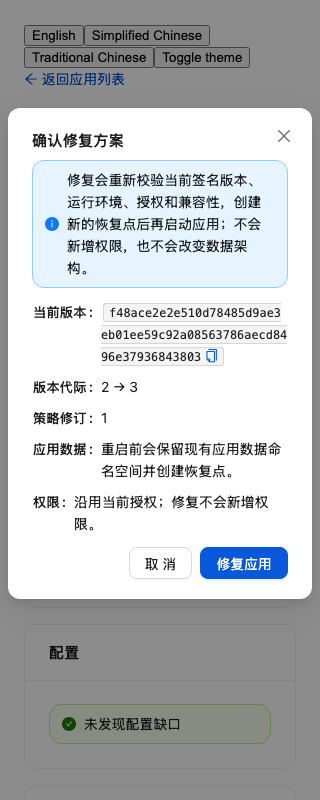
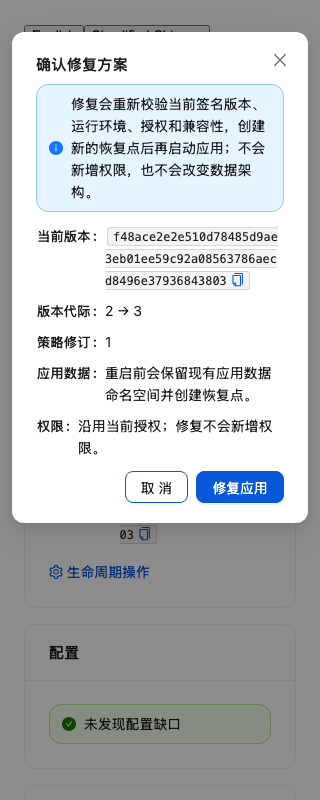
docs(apps): record enlarged review acceptance

diff --git a/docs/app-platform/handoff/implementation-progress.md b/docs/app-platform/handoff/implementation-progress.md
@@ -27,7 +27,7 @@ conditional CodeQL corrections.
 | H11 | platform developer | Static Notes uses the shared SDK object hook, reviewed `storage.files`, exact account/installation isolation, conflict handling and owner-approved clear-on-uninstall lifecycle. | Apps Notes UI 1 case, object hook/bridge 83 cases, both TypeScript builds and shared contract check passed after the per-plugin table migration. The real management-page fixture completed market discovery, TLS/signature verification, install, clear-on-uninstall, installable-state refresh and reinstall. A real Chromium run of the production Notes bundle through the SDK bridge passed at [320px dark zh-CN](handoff/evidence/notes-sample-320-zh-dark.png), [320px editor](handoff/evidence/notes-sample-320-zh-dark-editor.png) and [1440px light en-US](handoff/evidence/notes-sample-1440-en-light.png): document and body widths matched the 296px iframe viewport, there were no page/console errors, Tab entered the sandbox and reached Open, Enter opened the persisted note, the next Tab reached the editor, and the real page action completed an update before returning the new-note state. | Paired Portal/Apps CI on the final candidate |
 | H12 | not yet started in this pass | Scheduled Digest depends on approved H09 persistence and the separate H12 neutral reference app. | None | H09 approval and H12 UI/runtime implementation |
 | H13 | platform developer | `154-lifecycle-action-matrix.md` records every action, review, authority, data/code, failure and uncertainty boundary. Static-frontend update review/consume and the scheduler path remain in place. Managed updates now have exact review/admission, runtime selection in management HTTP, a managed queue and scheduler route, signed source quiesce, checkpoint-plan finalization and migration-to-start progression. Runner journal source lineage accepts ordinary install, writable install, `update-start` and `restore-start`, so a second update can stop/checkpoint the currently active generation instead of assuming generation one. Completed update history now reconstructs the exact active generation from its checkpoint, update-start, registration and data-lineage evidence; launch, directory, page binding, current-viewer backend requests and finalized-update network grants all bind the current generation instead of install generation one. Verified recovery supersedes only its exact completed restore lineage, so a resolved failed update no longer blocks the restored or re-enabled generation. The runner has a distinct signed update-start backend request path and releases the removed source's protected HTTP storage. Managed uninstall is admitted through the same review path and now executes `revoke -> stop -> remove_code -> remove_data -> complete`; the signed delete-data command binds the original preparation receipt, project ID, device, inode, quota, writer fence and release. Portal marks the namespace `deleted` only after a runner receipt proves the namespace tree and quota are absent. Reviewed standalone `delete_data` now has its own exact namespace projection and `queued -> validate -> revoke -> remove_data -> complete` executor. It binds the namespace revision/owner/state, retired activation and release, prepare-data operation/effect/receipt, data format, writer fence, project/device/inode/quota/ownership, recovery-set digest, runtime/controller epoch and actor review. Admission clears the namespace owner and marks it `deleting` without touching code, grants or the dedicated plugin table; completion requires the exact runner receipt, and uncertainty stops at `recovery_required` without automatic replay. Disable now has distinct frontend and managed scheduler execution: it immediately retires live authority while preserving code, access rows, credentials and data; managed completion requires an exact stopped receipt, while an unavailable runner is recorded as unavailable or `recovery_required`, never as stopped. Managed enable preserves the source release/policy/grants, checkpoints the retained namespace, starts a new generation and requires probe, registration, fresh boot and activation. | Native-only run `41330590646` completed install, A-to-B update, failed B-to-C recovery, exact failed-target stop/remove-code, verified XFS restore, generation-3 restore-start activation, managed disable, managed enable, a real reader backend request, then managed uninstall through `stop -> remove_code -> remove_data`. The same run passed the focused resolved-recovery, historical enable and backend-history tests. Its later one-image UUID replacement check was skipped because the disposable loop remained externally held and is recorded as a separate open identity-test gap. The standalone delete-data tests passed on SQLite and a fresh PostgreSQL 18.6 database, including stale plan refusal, concurrent same-key confirmation, two-admin race, audit-failure rollback and uncertain effect handling; the full local `internal/app` suite, Linux amd64 test compilation and Linux staticcheck also pass. | Reviewed repair execution, broader concurrent operator acceptance beyond delete-data, and native standalone delete-data acceptance |
-| H14 | platform developer | Existing install/admin/app-shell pages provide many states. The application-platform panel now has review states for install, update, enable, disable and danger-styled uninstall. Disable explicitly preserves data while immediately rejecting live authority and new background work; uninstall explicitly clears only the selected plugin installation, with the dedicated plugin table dropped only when no non-removed installation still uses it. The confirmation copy states that selected-installation boundary and last-installation table removal instead of implying that every uninstall drops a shared table. A new administrator settings page shows the current release, generation/policy, audience, capability grants, managed-backend state, retained data namespace, recovery state and credential binding metadata without exposing keys, policy JSON or credential values. Disabled or removed managed installations can start the existing reviewed `delete_data` flow; the dialog displays the exact namespace, generation transition, format and recovery scope before creating a durable operation. Disabled or recovery/review-required managed installations can also open an exact repair review when the projection reports a registered runtime, active namespace and no pending operation; the plan/commit API rechecks current runtime, trust, grants, compatibility and state. My Apps links administrators directly to the selected installation. Terminal operation polling refreshes the release directory exactly once, removing the stale installable row without a refresh loop. The repeatable Chromium matrix opens install reviews at 1440px en/light, 320px zh-CN/dark and 390px zh-TW/light, plus update, re-enable, disable and uninstall reviews against their real backend projections. It renders queued, controller-paused and recovery-required progress, captures settings at 1440px English/light and 320px Simplified Chinese/dark, opens a retained-data deletion review against a managed runtime, and captures repair, restore and paused-control settings at 1440px English/light and 320px Simplified Chinese/light. Every case checks page/dialog bounds, overflow, clipped tags, visible focus, Escape/trigger restoration where applicable, WCAG A/AA axe, browser errors and screenshots. Status stays on `StatusTag`; shared theme tokens cover links, success text and status backgrounds. | Browser report binds code `497c1caf`. `APP_INSTALL_BROWSER_ACCEPTED` reports zero page/dialog axe violations across all seventeen install/update/enable/disable/progress/settings/retained-delete/repair/restore/paused-control/uninstall scenarios, no overflow, clipped tags or dialog clipping, and successful focus restoration. The uninstall assertion requires both the other-plugin isolation statement and the last-installation table-removal statement. The install operation reaches `complete` and the row switches to installed lifecycle actions. Screenshots and machine report are in [platform install evidence](evidence/platform-install/acceptance.json). Portal Web passed 270 files / 2844 tests, typecheck, lint and the production build; local `internal/app` passed in 271.645s. Hosted CI passed quota/browser `41477427024`, general test `41477427497`, runner daemon `41477427308` and CodeQL `41477414839`. | Install/update/enable/disable/uninstall reviews, queued/paused/recovery progress, the settings surface, reviewed retained-data deletion, repair review/admission and restore review/admission are complete. Full neutral-state D5 review for retained-data reinstall and every other lifecycle page, repair and restore confirmation/progress browser paths against the real runner, enlarged-text coverage, plus a manual screen-reader audit outside reviewed dialogs, remain open for UX-01..10 |
+| H14 | platform developer | Existing install/admin/app-shell pages provide the lifecycle review and settings surfaces. Disable preserves data while immediately rejecting live authority and new background work; uninstall clears only the selected plugin installation, with the dedicated table dropped only when no non-removed installation remains. The confirmation copy states that selected-installation boundary and last-installation table removal. Disabled or removed managed installations can start exact `delete_data`; disabled or recovery/review-required installations can open exact repair; recovery-required enabled installations can restore a verified checkpoint. These projections show the exact namespace/checkpoint, generation transition, format and recovery scope before durable admission. My Apps links administrators to the selected installation, and terminal operation polling refreshes the release directory once. Review dialogs use a viewport-bounded flex container: the modal and both footer actions stay inside the viewport, while a keyboard-focusable inner scroll region reaches all details. Footer Cancel text uses the high-contrast text token. Status stays on `StatusTag`; shared theme tokens cover links, success text and status backgrounds. | Browser report binds `ba0f4667`. `APP_INSTALL_BROWSER_ACCEPTED` reports 30 scenarios with zero serious/critical axe violations, no page overflow, clipped tags or dialog clipping, and successful focus restoration. Thirteen states run at browser-equivalent 200% zoom on a physical 1440x900 display: install, update, enable, disable, uninstall, queued/paused/recovery progress, settings, permanent deletion, repair, restore and paused control. The normal matrix also covers three languages, 320px, the completed install transition and exact uninstall isolation copy. Screenshots and machine report are in [platform install evidence](evidence/platform-install/acceptance.json). Portal Web passed 270 files / 2844 tests, typecheck, lint and the production build; local `internal/app` passed in 271.645s. Hosted CI passed quota/browser `41493409034`, general test `41493408915`, runner daemon `41493408984` and CodeQL `41493401071`; the two CI-only Cancel contrast failures remain recorded. | Install/update/enable/disable/uninstall reviews, queued/paused/recovery progress, settings, permanent deletion, repair, restore, paused control and the enlarged-text UI matrix are complete. Full neutral-state D5 review, repair/restore confirmation/progress against the real runner, retained-data reinstall, remaining lifecycle pages and a manual screen-reader audit remain open for UX-01..10 |
 | H15 | platform developer | Shared legacy/v2 templates, create-app, plugin-standard, strict descriptor/package builder, deterministic ZIP, publisher/descriptor signing verification, contract generation, catalogue rejection of development versions and exact source/test pins are implemented. | The current Apps integration worktree reran all 55 Python script tests, the maintained frontend standard and fresh legacy/v2 template typecheck/test/build/candidate generation without catalogue or trust changes. Contract products match Portal source after regeneration. Status UI passed 9 tests, and the Notes reference app passed its UI test and production build. The catalogue verified both hosted release downloads; Status Beta.3 was independently downloaded from GitHub and every SHA-256 entry, including both Linux architectures, macOS, armv7 and Windows assets, matched. | Formal release-key/environment approval, a non-implementer tutorial walkthrough and final publication approval |
 | H16-H18 | not yet started in this pass | Full acceptance requires named owners, exact candidate SHA evidence and external CI/PostgreSQL/native hosts; production and legacy adoption remain separate owner decisions. | Existing focused/local evidence is mapped above but does not satisfy full matrix | Follow `144` H16-H18 with repository-owner assignment and explicit production/migration approvals |
 
@@ -111,14 +111,14 @@ route revalidates the failed update, active installation, namespace, writer
 fence, runtime, trust, grants and audience. Read-only settings remain available
 while application control is paused, with the pause reason shown and restore
 eligibility disabled; all mutation admission remains refused. The Chromium
-matrix captures restore and paused-control settings at 1440px English/light and
-320px Simplified Chinese/light, for seventeen scenarios total. Browser evidence
-binds `497c1caf`; local Web passed 270 files / 2844 tests and `internal/app`
-passed in 271.645s. Hosted CI passed quota/browser
-`41477427024`, general test `41477427497`, runner daemon `41477427308` and CodeQL
-`41477414839`.
-The first quota attempt failed in the existing native public-registration
-coordination pipe before quota enforcement; the same failed job passed on rerun.
+matrix now has thirty scenarios, including thirteen at browser-equivalent 200%
+zoom. Dialog bounds include the top, bottom and footer actions; the inner review
+scroll region is keyboard focusable. Browser evidence binds `ba0f4667`; local
+Web passed 270 files / 2844 tests and `internal/app` passed in 271.645s. Hosted
+CI passed quota/browser `41493409034`, general test `41493408915`, runner daemon
+`41493408984` and CodeQL `41493401071`. Two intermediate browser attempts failed
+on the real Cancel-button contrast assertion; footer-scoped high-contrast
+styling fixed the cause and both failures remain recorded.
 
 Latest H14 My Apps evidence: v2 directory cards now distinguish pending,
 disabled and attention states with separate explanations instead of one generic

diff --git a/docs/app-platform/156-application-settings.md b/docs/app-platform/156-application-settings.md
@@ -106,13 +106,19 @@ The repeatable Chromium matrix now captures:
   Chinese/light, including the exact recovery point and data-loss boundary;
 - paused-control settings at 1440 px English/light and 320 px Simplified
   Chinese/light, with the pause reason and disabled restore action;
+- settings and every deletion, repair, restore and paused-control review at
+  browser-equivalent 200% zoom on a 1440x900 physical display;
 - the existing install, update, enable, disable, uninstall and queued, paused,
   recovery-required lifecycle scenarios.
 
 All settings views have no page overflow, clipped tags or serious/critical axe
 violations. The 320 px repair and restore dialogs have no clipping, focus starts
-inside the dialog and the footer remains reachable. The machine report binds code
-`9137a466`; screenshots and
+inside the dialog and the footer remains reachable. At 200% zoom the scrollable
+review body remains keyboard focusable, the dialog stays inside the viewport and
+both footer actions remain reachable. Ordinary review buttons use the
+high-contrast text token, including the CI-discovered Cancel contrast case. The
+machine report binds code `ba0f4667`;
+screenshots and
 `acceptance.json` are in
 [platform install evidence](handoff/evidence/platform-install).
 
@@ -120,16 +126,15 @@ Full local Web verification passed 270 files / 2844 tests, typecheck, lint and
 the production build. Focused settings tests pass against SQLite, with the same
 case included in the PostgreSQL `TestPlatform*Postgres` group. Full
 `internal/app` verification passed in 271.645s. Browser evidence binds
-`9137a466`. Candidate `9137a466` passed general test run `41470397336`,
-runner daemon run `41470397185` and quota/browser run `41470397132`. The first
-quota attempt failed in the existing native public-registration coordination
-pipe before project-quota enforcement; the same failed job passed on rerun. Both
-results remain recorded in PR #364.
+`ba0f4667`. Candidate `ba0f4667` passed general test run `41493408915`, runner
+daemon run `41493408984`, quota/browser run `41493409034` and CodeQL
+`41493401071`. Two earlier attempts of the same browser step failed on the
+actual Cancel-button contrast assertion; footer-scoped high-contrast styling
+fixed the cause. Those failed runs remain recorded in PR #364.
 
 ## Remaining scope
 
 Editing audiences, grants or credentials continues through their exact reviewed
 flows. The full D5 review still needs manual screen-reader testing, a repair
 and restore confirmation/progress browser path against the real runner,
-retained-data reinstall, enlarged-text coverage and the remaining lifecycle
-pages.
+retained-data reinstall and the remaining lifecycle pages.

diff --git a/docs/app-platform/60-installation-confirmation-ui.md b/docs/app-platform/60-installation-confirmation-ui.md
@@ -216,6 +216,20 @@ now covers seventeen scenarios, including restore and paused-control settings at
 `internal/app` passed in 271.645s.
 Exact hosted runs are quota/browser `41470397132`, general test `41470397336`
 and runner daemon `41470397185`.
+Portal `ba0f4667` extends the matrix to thirty scenarios. Thirteen lifecycle
+states run at browser-equivalent 200% zoom: the physical display remains
+1440x900 while the CSS viewport is 720x450 and rendered pixels are doubled.
+Coverage includes install, update, enable, disable, uninstall, queued, paused,
+recovery-required, settings, permanent deletion, repair, restore and
+paused-control screens. Dialog assertions now require the modal and both footer
+actions to remain inside the viewport. The review body is a keyboard-focusable
+scroll region, so large text can reach every confirmation action without
+page-wide overflow or an inaccessible scroll area. The CI-discovered low
+contrast Cancel text is fixed by binding ordinary review buttons to the
+high-contrast text token with footer-scoped priority; both failed runs remain
+recorded.
+Exact hosted checks for `ba0f4667` are quota/browser `41493409034`, general test
+`41493408915`, runner daemon `41493408984` and CodeQL `41493401071`.
 
 ## Remaining platform scope
 
